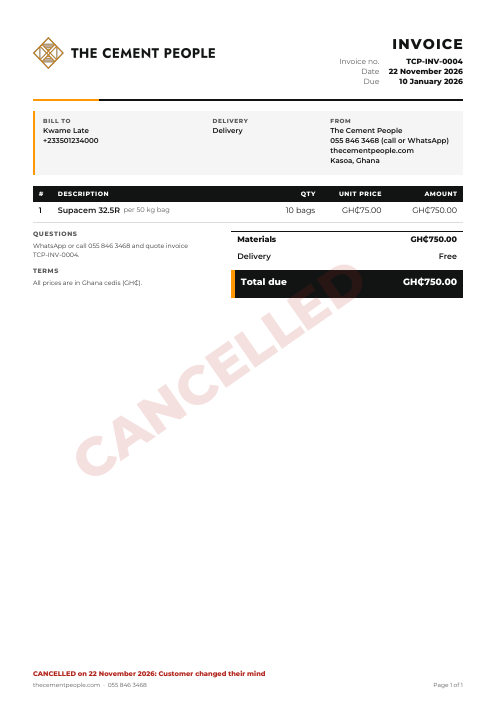
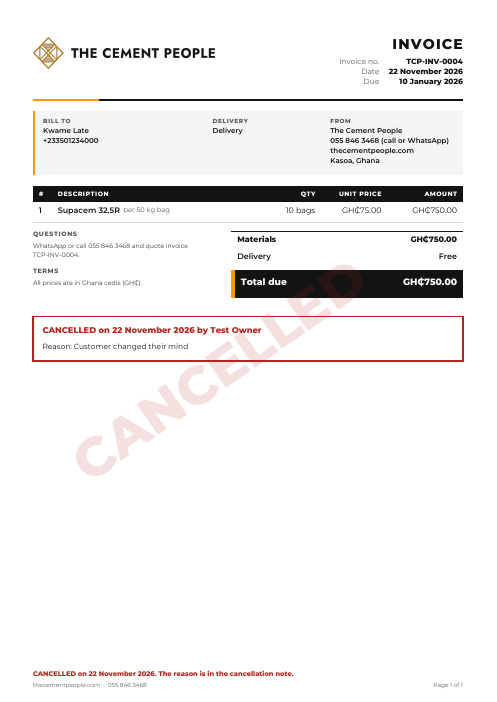
Phase 2.1: the whole cancellation reason in the cancelled PDF
ChatGPT's review of PR #41: the footer line drew only the first wrapped
line of the reason (txt(wrap(why,W)[0],...)), so a long reason was cut.

- A cancellation section now follows the totals: "CANCELLED on <date> by
  <name>" and the whole reason, wrapped. If it doesn't fit above the
  footer it starts a new page; it never runs into the footer.
- The line above the footer on every page is now short ("CANCELLED on
  <date>. The reason is in the cancellation note."), with the watermark
  still on every page.
- Test L10 (a 1-line and a 40-line invoice, with a three-sentence reason):
  the reason appears word for word, every page is marked, and no word but
  the footer's sits in the footer band (word boxes from pdftotext -bbox).
  Checked by cutting the reason to its first line and by pushing the
  section into the footer: both fail the test.

Claude-Session: https://claude.ai/code/session_01FicDKV6V5AC4fzD2zwii7Y

Changed region(s): [[0.0604, 0.4487, 0.5433, 0.5385], [0.332, 0.9573, 0.5734, 0.9872], [0.9054, 0.4487, 0.9356, 0.5385]]

diff --git a/web/public/scripts/back-office.js b/web/public/scripts/back-office.js
@@ -770,20 +770,34 @@ async function makePdf(doc){
   sy+=1.5;const gh=3*2+pt(11)*1.45;
   pdf.setFillColor(INK);pdf.rect(sx,sy,TW,gh,"F");pdf.setFillColor(OCHRE);pdf.rect(sx,sy,1.5,gh,"F");
   font("bold",11,"#ffffff");txt("Total due",sx+1.5+2.5,sy+3);txt(money(toP(doc.total)),R-2.5,sy+3,{right:1});
+  // -- A cancelled invoice: a cancellation section under everything else,
+  //    with the WHOLE reason, however long (wrapped, never cut short). If it
+  //    doesn't fit above the footer it starts a new page.
+  if(cancelled){
+    const RED="#b3261e",clh=pt(9)*1.45;
+    font("normal",9);const why=wrap(`Reason: ${String(doc.cancel_reason||"").trim()}`,W-8);
+    const head=`CANCELLED${doc.cancelled_at?" on "+dateText(doc.cancelled_at):""}${doc.cancelled_by?" by "+doc.cancelled_by:""}`;
+    const boxH=4+pt(10)*1.45+2+why.length*clh+3;
+    let cy=Math.max(sy+gh,ny)+8;
+    if(cy+boxH>BOTTOM){pdf.addPage();cy=TOP+6;}
+    pdf.setDrawColor(RED);pdf.setLineWidth(.6);pdf.rect(L,cy,W,boxH);
+    font("bold",10,RED);txt(head,L+4,cy+4);
+    font("normal",9,INK);why.forEach((l,i)=>txt(l,L+4,cy+4+pt(10)*1.45+2+i*clh));
+  }
   // -- Every page: footer; pages 2+ also a "continued" line at the top
   const n=pdf.getNumberOfPages();
   for(let p=1;p<=n;p++){pdf.setPage(p);
     font("normal",7,MUTE);txt(`${B.website}  ·  ${B.phone}`,L,289);txt(`Page ${p} of ${n}`,R,289,{right:1});
     if(p>1){font("bold",7.5);txt(`${B.name}  ·  ${DOC_TITLE} ${doc.invoice_no}`,L,9);font("normal",7.5,MUTE);txt("Continued",R,9,{right:1});}
     if(cancelled){
-      // Across the page, faint, so the invoice stays readable; and a plain
-      // line above the footer with the date and reason.
+      // Across the page, faint, so the invoice stays readable.
       pdf.saveGraphicsState();pdf.setGState(new pdf.GState({opacity:0.14}));
       font("bold",64,"#b3261e");pdf.text("CANCELLED",38,205,{angle:35});
       pdf.restoreGraphicsState();
+      // Above the footer, on every page: short, so it always fits; the
+      // full reason is in the cancellation section.
       font("bold",8,"#b3261e");
-      const why=`CANCELLED${doc.cancelled_at?" on "+dateText(doc.cancelled_at):""}${doc.cancel_reason?": "+doc.cancel_reason:""}`;
-      txt(wrap(why,W)[0],L,284);}}
+      txt(`CANCELLED${doc.cancelled_at?" on "+dateText(doc.cancelled_at):""}. The reason is in the cancellation note.`,L,284);}}
   return pdf;
 }
 

diff --git a/tests/test_back_office.py b/tests/test_back_office.py
@@ -142,6 +142,8 @@ Phase 2.1 Design, Payments Ledger and Cancelling Invoices (v1.1)"):
   L08  an invoice holding money can't be cancelled (and the "database"
        refuses it); after a full refund it can, keeping its history
   L09  the Payments tab and the Cancel box fit 360 px and 390 px phones
+  L10  a long cancellation reason appears in full in the PDF, never over
+       the footer; CANCELLED is on every page of a long invoice
 """
 import base64
 import io
@@ -2112,4 +2114,36 @@ def test_l09_payments_and_cancel_fit_a_phone(browser, width):
     _ledger(page, "#/payments?period=all"); assert fits()
     page.evaluate("location.hash = '#/invoice/5'"); page.wait_for_selector("#cxBox:not([hidden])")
     page.click("#cxOpen"); page.fill("#cxWhy", "x"); page.click("#cxNext"); page.wait_for_selector("#cxConfirm:not([hidden])"); assert fits()
+    assert not errors
+
+
+
+LONG_WHY = ("Customer cancelled the order after delivery arrangements changed and the materials were no longer required; "
+            "the site manager confirmed by phone on Monday that the foundation work has been postponed until the new year, "
+            "so nothing will be delivered and nothing is owed on this invoice.")
+
+
+@pytest.mark.parametrize("lines", [1, 40])
+def test_l10_long_cancellation_reason_in_full(browser, lines):
+    page, errors = _bo(browser, seed=[{"name": "Ama Unpaid", "phone": "+233241234567", "state": "issued", "due": FUTURE,
+                                       "lines": [{"qty": 1, "price": 10}] * lines}], route="#/invoice/1")
+    page.wait_for_selector("#cxBox:not([hidden])")
+    page.click("#cxOpen"); page.fill("#cxWhy", LONG_WHY); page.click("#cxNext"); page.click("#cxYes")
+    page.wait_for_function("document.querySelector('#viewTitle').textContent === 'Cancelled invoice'")
+    texts, _ = _pdf(page)
+    whole = " ".join(" ".join(t.split()) for t in texts)
+    assert ("Reason: " + LONG_WHY) in whole, "the whole reason, word for word"
+    assert all("CANCELLED" in t for t in texts), "every page is marked"
+    # Nothing is drawn into the footer band (below 282 mm = 799.4 pt) but the
+    # footer itself and the short CANCELLED line: word boxes from poppler.
+    import re, subprocess, tempfile
+    b64 = page.evaluate("async () => (await TCPDesk.makePdf(TCPDesk.doc())).output('datauristring').split(',')[1]")
+    with tempfile.NamedTemporaryFile(suffix=".pdf") as f:
+        f.write(base64.b64decode(b64)); f.flush()
+        boxes = subprocess.run(["pdftotext", "-bbox", f.name, "-"], capture_output=True, text=True, check=True).stdout
+    footer_words = set("CANCELLED on November 2026. The reason is in the cancellation note. thecementpeople.com · 055 846 3468 Page of".split())
+    low = [w for y, w in re.findall(r'yMax="([\d.]+)">([^<]+)</word>', boxes)
+           if float(y) > 799.4 and w not in footer_words and not w.isdigit()]
+    assert not low, low
+    assert len(texts) == (1 if lines == 1 else len(texts)) and (lines == 1 or len(texts) >= 2)
     assert not errors
